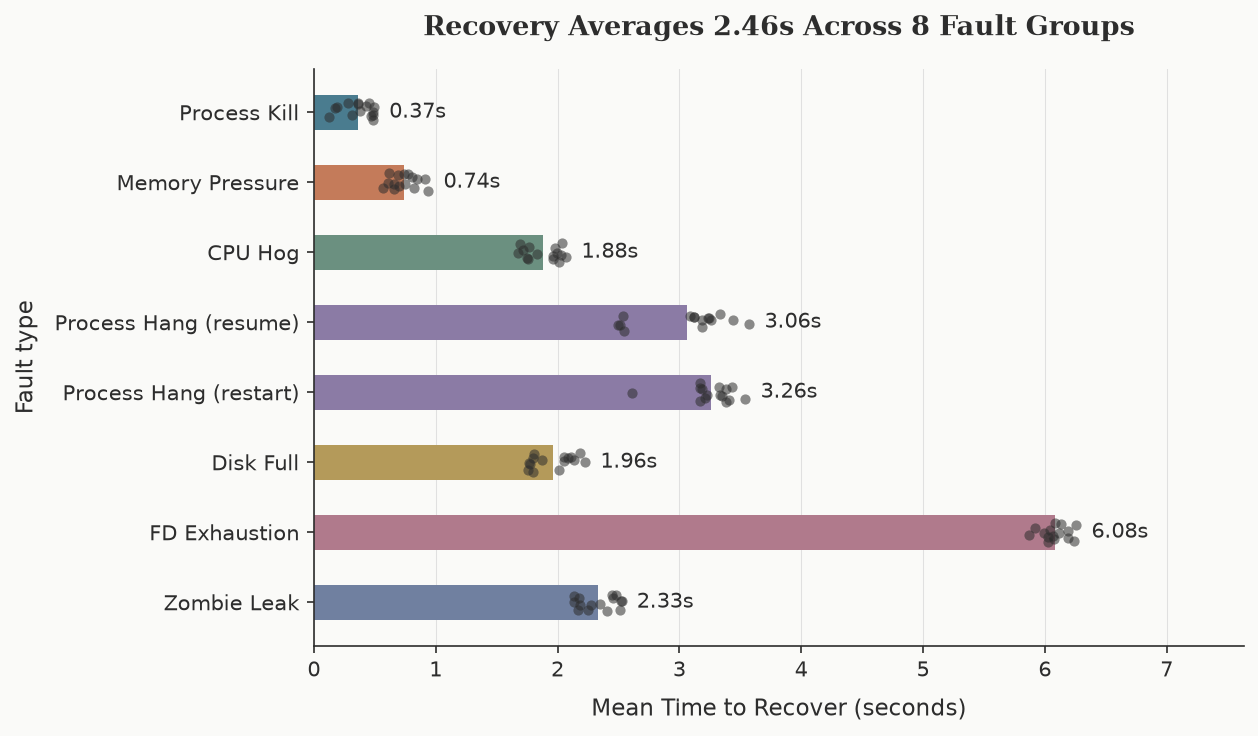
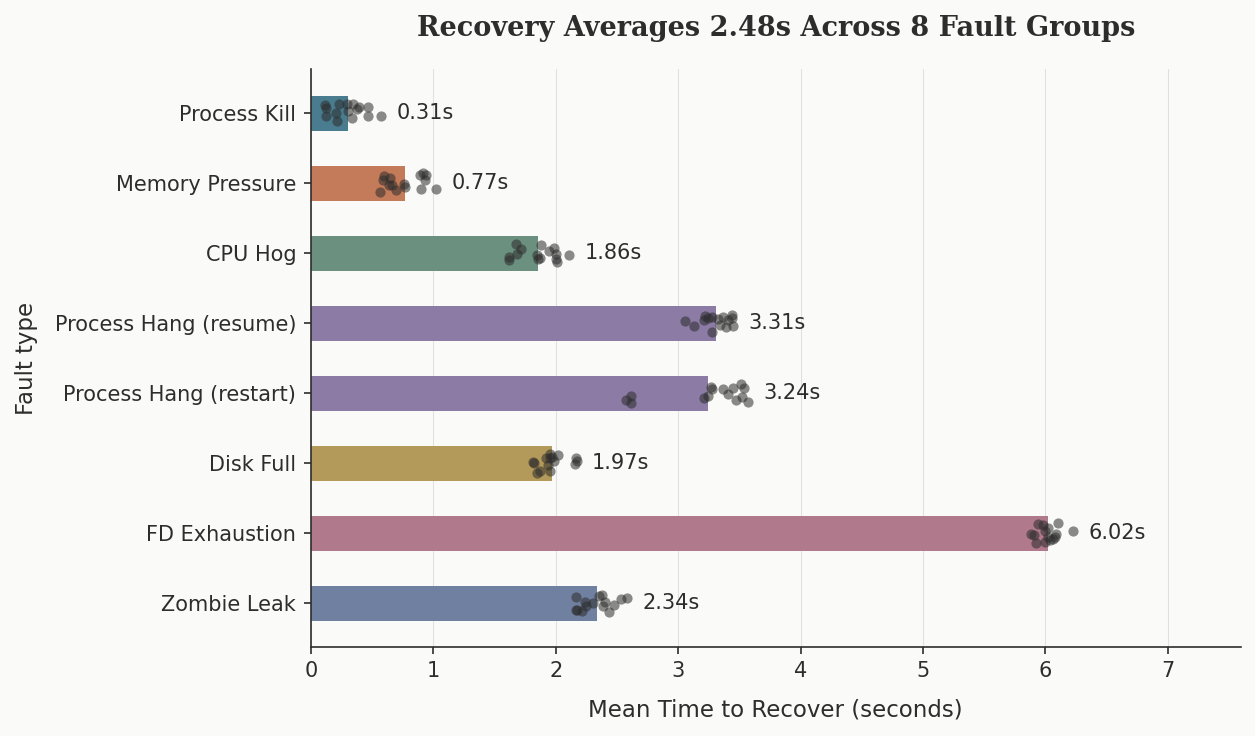
Update README and charts with final 7-fault results

diff --git a/README.md b/README.md
@@ -124,16 +124,16 @@ Computed from `results/results.csv` — 120 trials across 8 groups (7 faults; pr
 
 | Fault group | MTTD mean (s) | MTTR mean (s) | Recovery cost (s) | Success |
 |---|---|---|---|---|
-| Process Kill | 0.258 | 0.365 | 0.107 | 100% |
-| Memory Pressure | 0.733 | 0.739 | 0.006 | 100% |
-| CPU Hog | 1.760 | 1.883 | 0.123 | 100% |
-| Process Hang (resume) | 3.016 | 3.059 | 0.043 | 100% |
-| Process Hang (restart) | 3.149 | 3.259 | 0.110 | 100% |
-| Disk Full | 1.953 | 1.963 | 0.010 | 100% |
-| FD Exhaustion | 5.968 | 6.082 | 0.114 | 100% |
-| Zombie Leak | 2.327 | 2.334 | 0.007 | 100% |
+| Process Kill | 0.199 | 0.306 | 0.107 | 100% |
+| Memory Pressure | 0.764 | 0.769 | 0.005 | 100% |
+| CPU Hog | 1.735 | 1.855 | 0.120 | 100% |
+| Process Hang (resume) | 3.297 | 3.306 | 0.009 | 100% |
+| Process Hang (restart) | 3.133 | 3.242 | 0.109 | 100% |
+| Disk Full | 1.961 | 1.971 | 0.009 | 100% |
+| FD Exhaustion | 5.908 | 6.017 | 0.109 | 100% |
+| Zombie Leak | 2.332 | 2.338 | 0.006 | 100% |
 
-MTTD includes each fault's own ramp-up time (configured fill/leak/spawn speed) plus the detection debounce, so it is not a fair measure of recovery quality — recovery cost (MTTR − MTTD) is compared in the recovery-time chart, and it sits between 0.006s and 0.123s for every fault.
+MTTD includes each fault's own ramp-up time (configured fill/leak/spawn speed) plus the detection debounce, so it is not a fair measure of recovery quality — recovery cost (MTTR − MTTD) is compared in the recovery-time chart, and it sits between 0.005s and 0.120s for every fault.
 
 ---
 
@@ -156,7 +156,7 @@ Written honestly:
 - **One container, one laptop.** All faults are controlled simulations inside a single Docker container on one machine. Absolute numbers (MTTD/MTTR) vary with the host — the *relative* differences and mechanisms are the findings, not the milliseconds.
 - **15 trials per group.** Enough to show a stable distribution, not a rigorous statistical study.
 - **100% success ≠ real-world robustness.** The recovery mechanisms work for the faults as injected; real failures arrive with partial state, concurrent causes, and network effects that this lab does not model.
-- **Resume vs restart is within noise.** The two process_hang strategies differ by ~0.07s in recovery cost — not a meaningful gap; the interesting difference (resume keeps possibly-corrupt state) is qualitative, not measured here.
+- **Resume vs restart: MTTR flips, recovery cost does not.** The MTTR difference between the two process_hang strategies is dominated by detection-time variance and flips between runs, but the recovery action cost itself differs consistently (resume about 0.01s, restart about 0.1s) because restarting has to launch a new process. The interesting qualitative difference — resume keeps possibly-corrupt state — is not measured here.
 - **One fault at a time.** Faults are never combined; cascading failures are out of scope.
 
 ---
